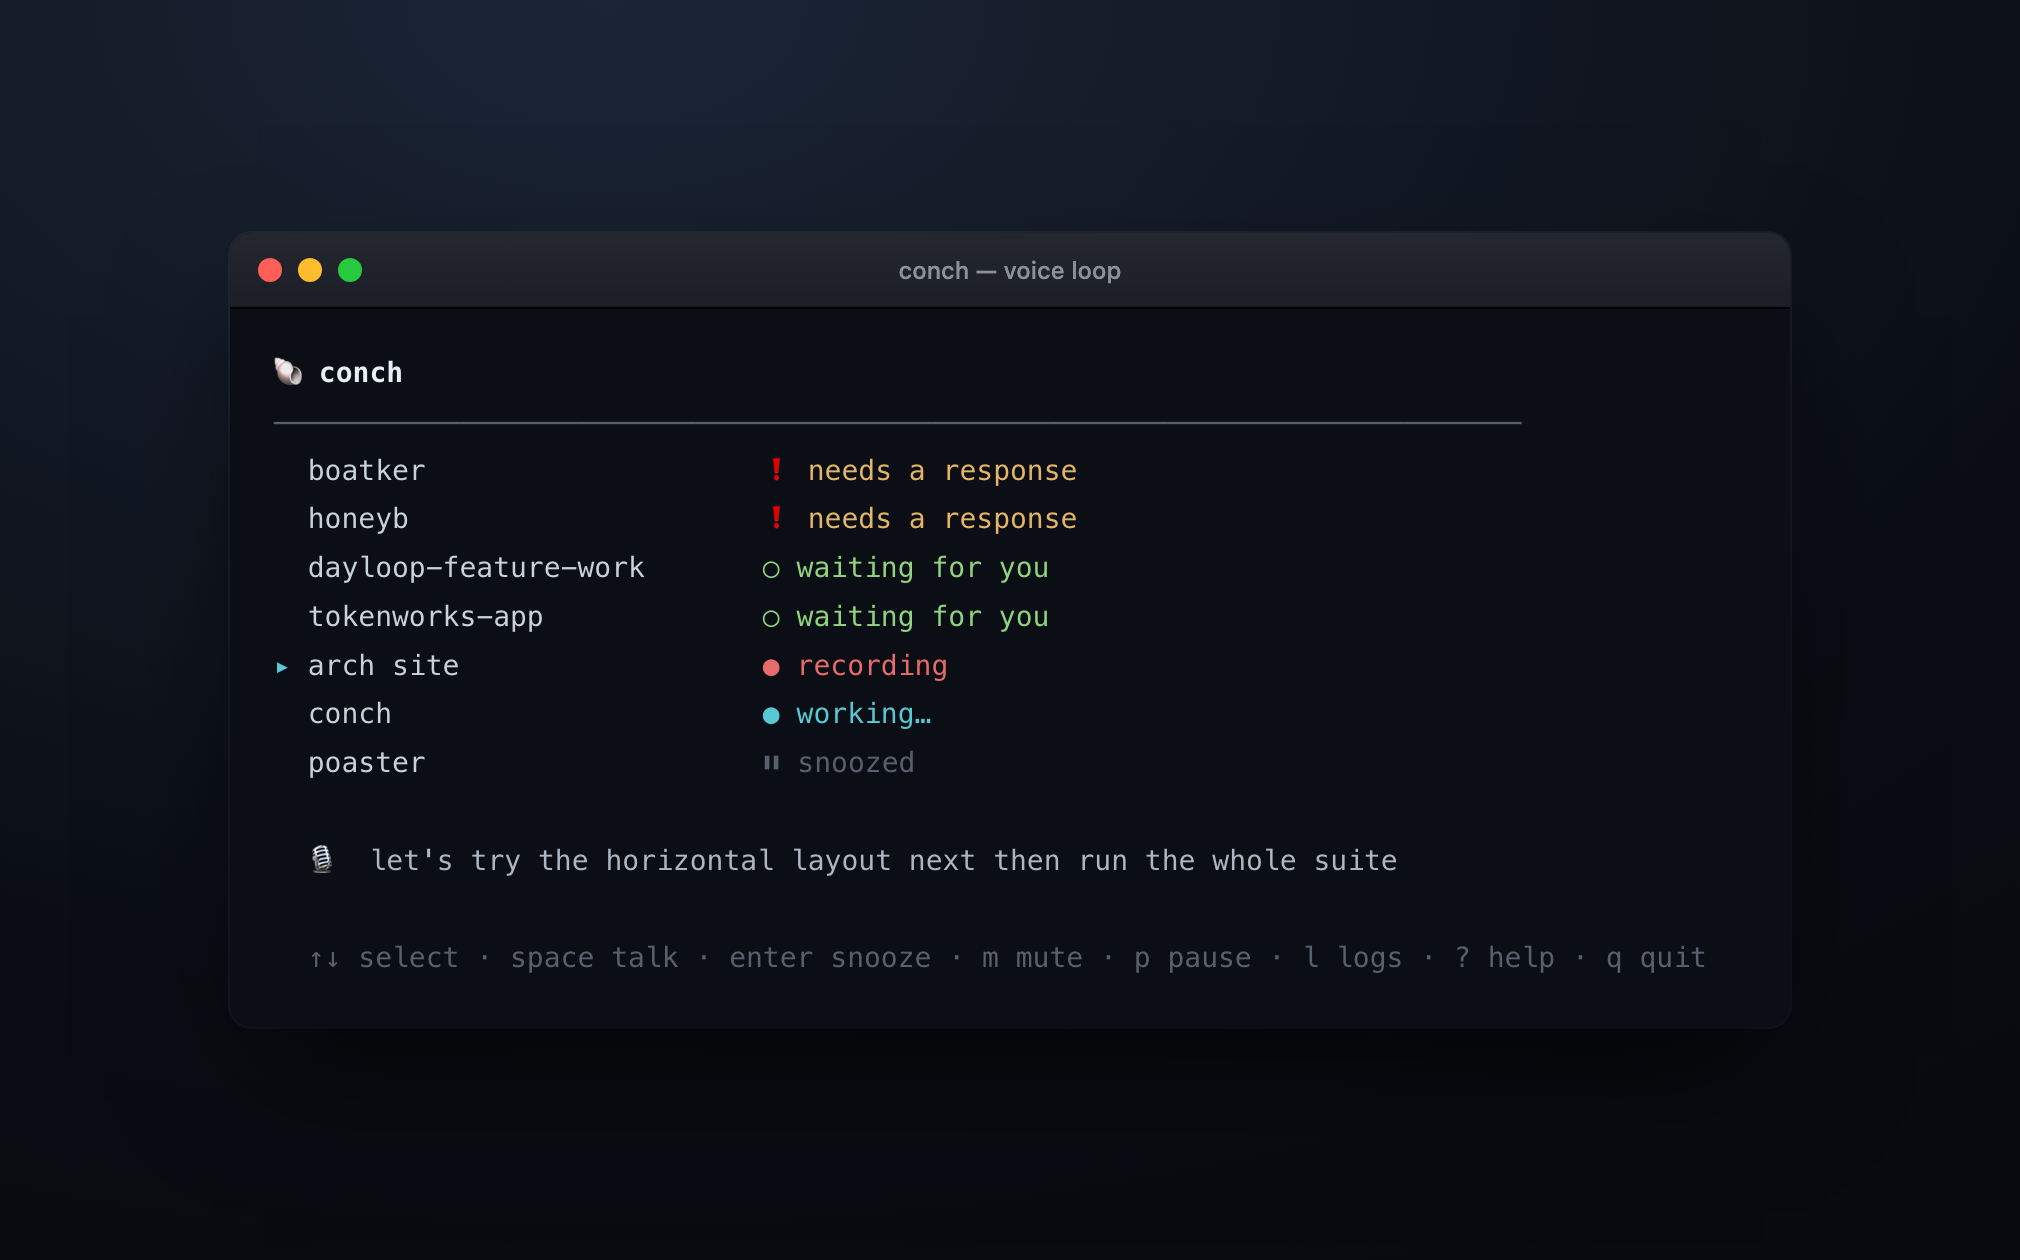
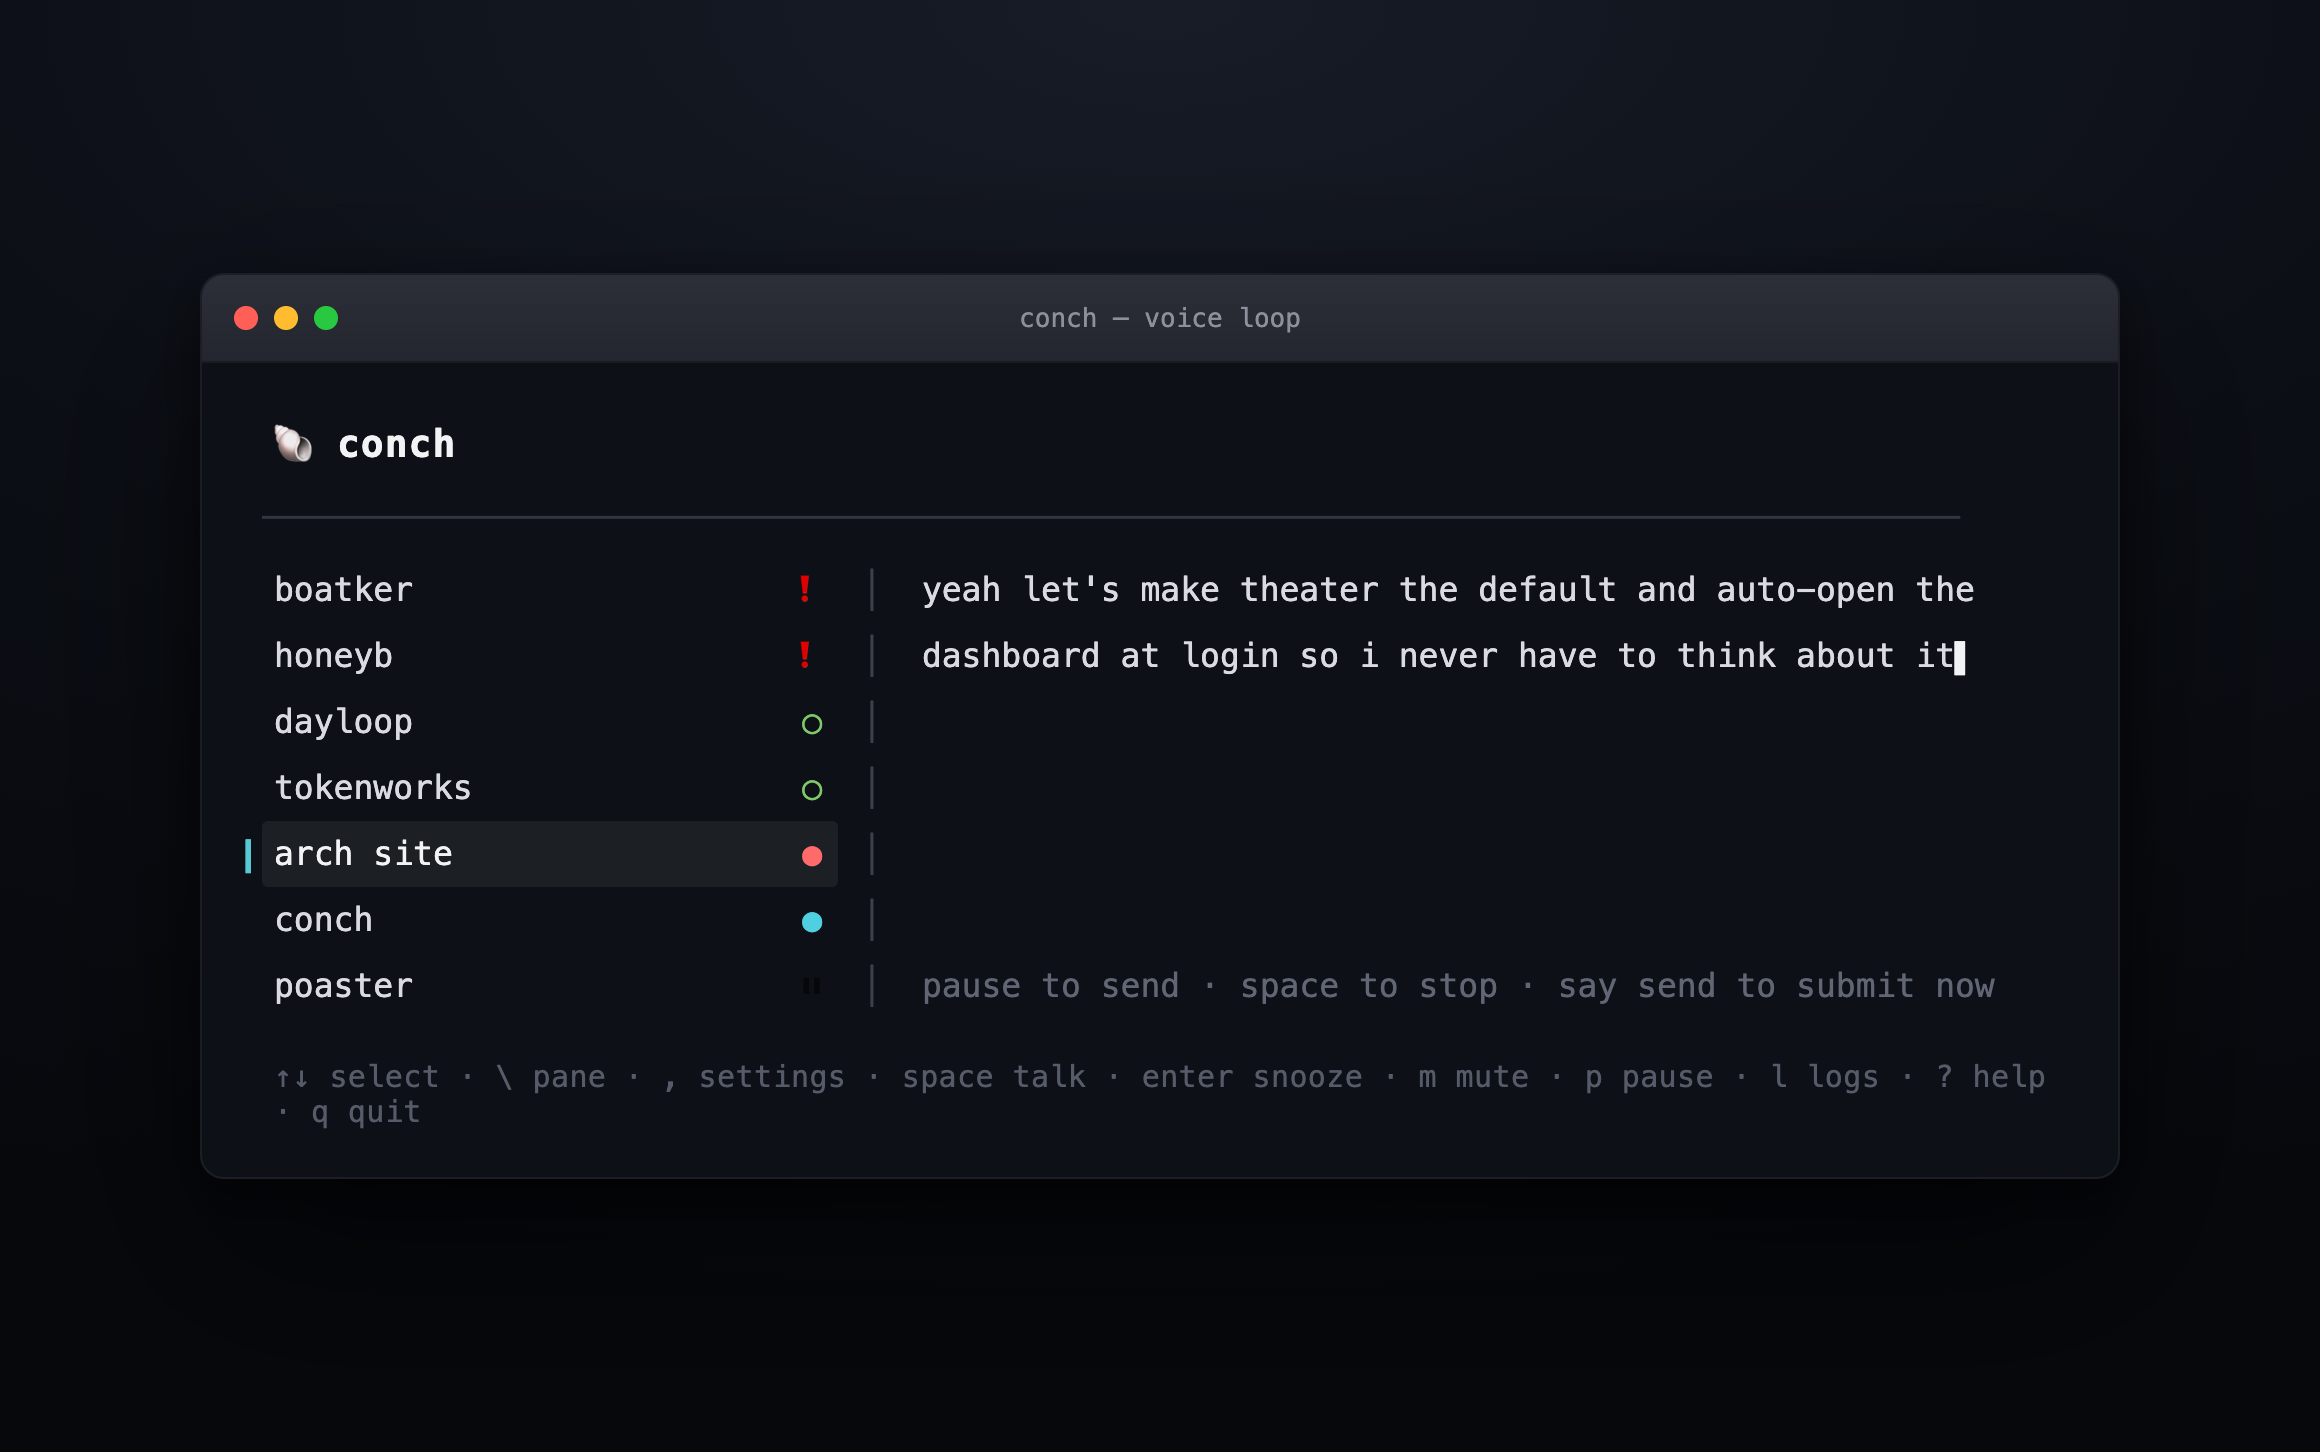
docs: refresh README hero + dashboard section for theater
Replace the footer-era dashboard screenshot with the theater layout
(session ledger + read-along pane, live transcript building). Update the
hero alt text, the "The dashboard" walkthrough (ASCII mock, `conch` vs
`conch daemon`, the pane instead of the reserved footer line), and the
key hints (`\` pane, `,` settings).

Claude-Session: https://claude.ai/code/session_0189dDgHQrfbdG9sYLt8P7HU

diff --git a/README.md b/README.md
@@ -2,7 +2,7 @@
 
 A voice loop for Claude Code. Your sessions announce themselves out loud when they finish — then you just talk back.
 
-![The conch dashboard — one line per live Claude Code session, sorted so whatever needs you floats to the top; the session conch is talking to lights up as it records your spoken reply.](docs/dashboard.png)
+![The conch dashboard — a live session ledger down the left (sorted so whatever needs you floats to the top, each row a colored status dot), and a pane on the right that reads along with the session conch is talking to: here, your spoken reply building word by word as it records.](docs/dashboard.png)
 
 ```
 Claude finishes a turn
@@ -122,27 +122,24 @@ Commands only match as the *entire* utterance — "continue working on the login
 
 ## The dashboard
 
-Run the daemon in a visible terminal (`conch daemon`) and you get the dashboard from the screenshot above — **one line per live Claude Code session**, so you can see who needs you at a glance without conch ever nagging you aloud:
+Run the daemon in a visible terminal (`conch daemon`), or just type **`conch`** to attach to the one `conch service` keeps running in the background — either way you get the dashboard from the screenshot above: a **live session ledger** on the left, a **read-along pane** on the right, so you can see who needs you at a glance without conch ever nagging you aloud:
 
 ```
   🐚 conch
-  ──────────────────────────────────────────────────────────
-  boatker                    ❗ needs a response
-  honeyb                     ❗ needs a response
-  dayloop-feature-work       ○ waiting for you
-  tokenworks-app             ○ waiting for you
-▸ arch site                  ● recording
-  conch                      ● working…
-  poaster                    ⏸ snoozed
-
-  🎙  let's try the horizontal layout next then run the whole suite
-
-  ↑↓ select · space talk · enter snooze · m mute · p pause · l logs · ? help · q quit
+  ─────────────────────────────────────────────────────────────────
+   boatker      ❗ │ yeah let's make theater the default and
+   honeyb       ❗ │ auto-open the dashboard at login so i never
+   dayloop      ○ │ have to think about it▌
+   tokenworks   ○ │
+ ▎ arch site    ● │
+   conch        ● │
+   poaster      ⏸ │ pause to send · space to stop · say send to submit now
+   ↑↓ select · \ pane · , settings · space talk · enter snooze · m mute · ? help
 ```
 
-Sessions that need input sort to the top. Each row carries its own state — `❗ needs a response`, `○ waiting for you`, `● working…`, `⏸ snoozed` — and the **one conch is currently talking to lights up in place** as it moves through the turn (`▶ speaking` → `● mic open` → `● recording` → `… transcribing`). The reserved line beneath the list streams **your words as you speak them**, so there's no layout shift when the mic opens.
+Sessions that need input sort to the top. Each row carries a **colored status dot** — `❗ needs a response`, `○ waiting for you`, `● working…`, `● recording`, `⏸ snoozed` — and the **session conch is currently talking to** takes a cyan accent bar and lights up in place as it moves through the turn (`▶ speaking` → `● mic open` → `● recording` → `… transcribing`). The **pane on the right reads along**: your words build there as you speak them while it records, and when conch reads a reply back the pane scrolls through it, dimming what's already been spoken.
 
-You don't have to touch it — but you can. **↑↓** move a cursor through the sessions; **space** talks to the selected one (or the last announcer if you haven't picked); **enter** snoozes/resumes it; **l** toggles a live log; **?** shows the full key + voice-command help. The play-by-play is always written to `/tmp/conch-daemon.log` whether or not the log is on screen, so the dashboard stays clean by default.
+You don't have to touch it — but you can. **↑↓** move a cursor through the sessions; **space** talks to the selected one (or the last announcer if you haven't picked); **enter** snoozes/resumes it; **\\** hides the pane for a full-width ledger; **,** opens live settings; **l** toggles a log in the pane; **?** shows the full key + voice-command help. The play-by-play is always written to `/tmp/conch-daemon.log` whether or not the log is on screen, so the dashboard stays clean by default.
 
 **Windows follow the voice too.** When conch starts talking to a session, that session's Terminal window rises to the front *without stealing your keyboard focus* — you keep typing wherever you are, and the session you're hearing is already there when you look up. (`CONCH_REVEAL_ON_TURN=0` to disable.)
 
